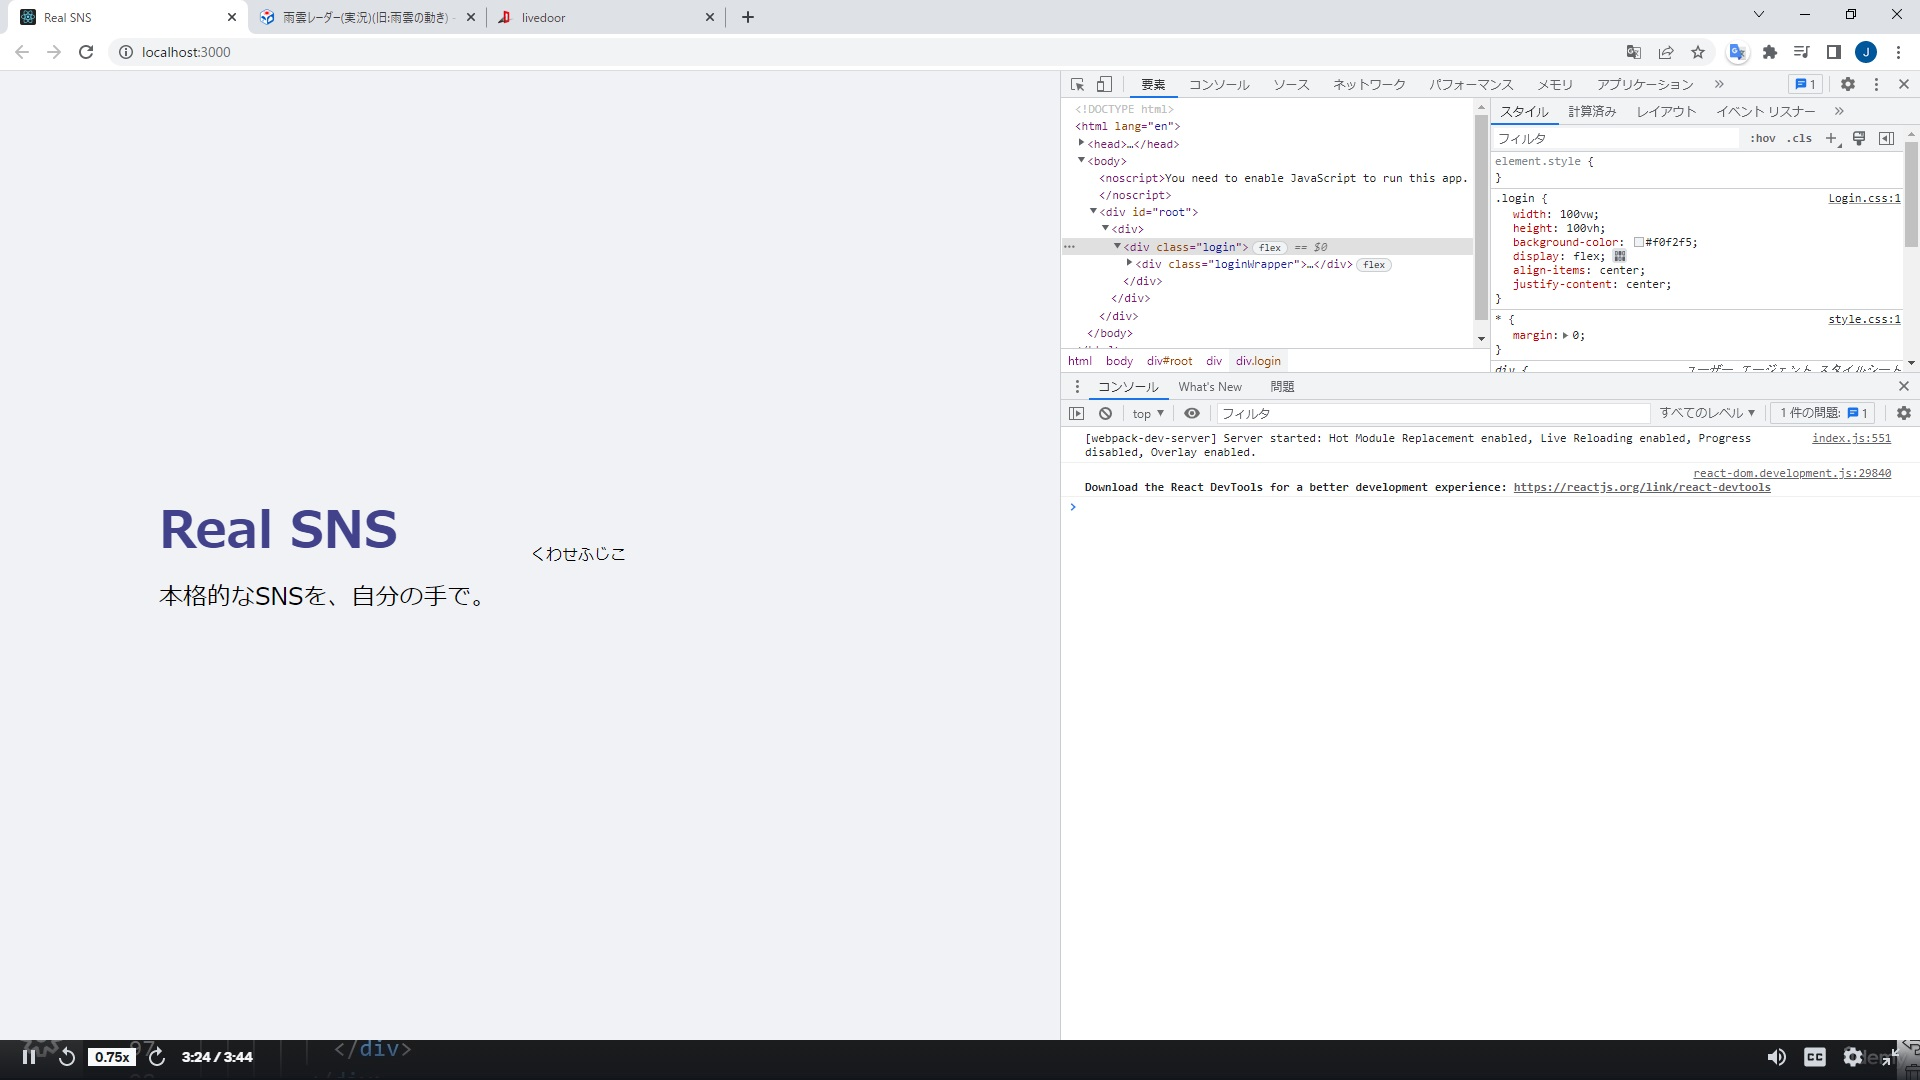
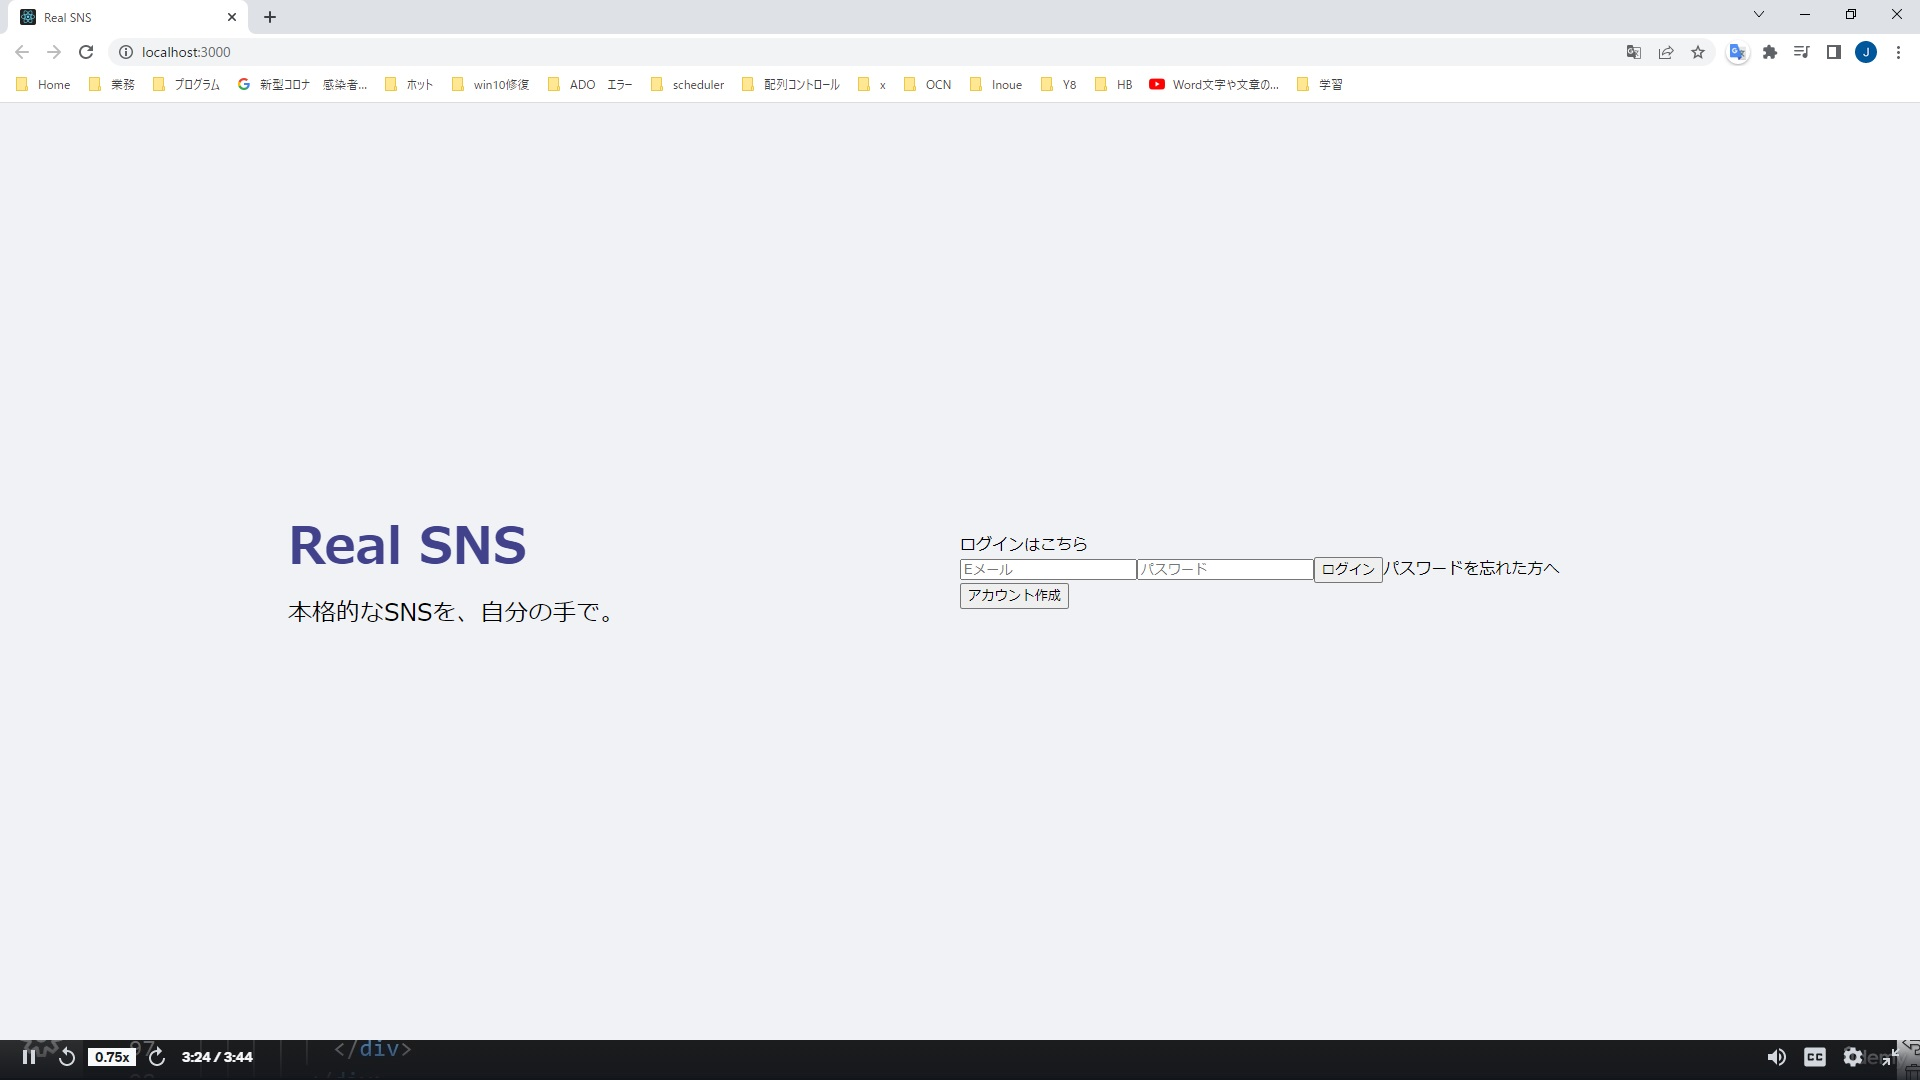
L73. ログインコンポーネント HTML

diff --git a/src/pages/login/Login.jsx b/src/pages/login/Login.jsx
@@ -10,7 +10,17 @@ export default function Login() {
                     <h3 className="loginLogo">Real SNS</h3>
                     <span className="loginDesc">本格的なSNSを、自分の手で。</span>
                 </div>
-                <div className="loginRight">くわせふじこ</div>
+                <div className="loginRight">
+                    <div className="loginBox">
+                        <p className="loginMsg">ログインはこちら</p>
+                        <input type="text" className="loginInput" placeholder="Eメール" />
+                        <input type="text" className="loginInput" placeholder="パスワード" />
+                        <button className="loginButton" >ログイン</button>
+                        <span className="loginForgot">パスワードを忘れた方へ</span>
+                        <button className="loginREgisterButton">アカウント作成</button>
+
+                    </div>
+                </div>                
             </div>
         </div>
     </div>
